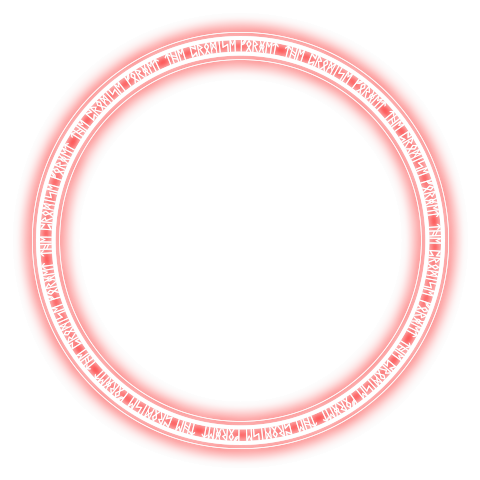
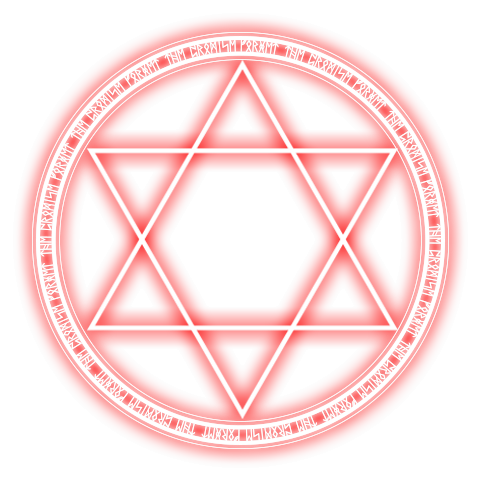
update: boss_appearance

Changed region(s): [[0.1562, 0.125, 0.8438, 0.875]]

diff --git a/src/js/createjs/boss_appearance.js b/src/js/createjs/boss_appearance.js
@@ -11,12 +11,12 @@ var p; // shortcut to reference prototypes
 	this.initialize(mode,startPosition,loop,{});
 
 	// timeline functions:
-	this.frame_57 = function() {
+	this.frame_87 = function() {
 		this.stop();
 	}
 
 	// actions tween:
-	this.timeline.addTween(cjs.Tween.get(this).wait(57).call(this.frame_57));
+	this.timeline.addTween(cjs.Tween.get(this).wait(87).call(this.frame_87));
 
 	// circle
 	this.instance = new lib.circle_motion();
@@ -24,21 +24,21 @@ var p; // shortcut to reference prototypes
 	this.instance.alpha = 0.602;
 	this.instance._off = true;
 
-	this.timeline.addTween(cjs.Tween.get(this.instance).wait(27).to({_off:false},0).wait(31));
+	this.timeline.addTween(cjs.Tween.get(this.instance).wait(27).to({_off:false},0).wait(61));
 
 	// housya
 	this.instance_1 = new lib.emlight_motion();
 	this.instance_1.setTransform(480,480);
 	this.instance_1._off = true;
 
-	this.timeline.addTween(cjs.Tween.get(this.instance_1).wait(27).to({_off:false},0).to({_off:true},30).wait(1));
+	this.timeline.addTween(cjs.Tween.get(this.instance_1).wait(27).to({_off:false},0).to({_off:true},60).wait(1));
 
 	// maru
 	this.instance_2 = new lib.dot_1();
 	this.instance_2.setTransform(480,480);
 	this.instance_2._off = true;
 
-	this.timeline.addTween(cjs.Tween.get(this.instance_2).wait(27).to({_off:false},0).to({_off:true},30).wait(1));
+	this.timeline.addTween(cjs.Tween.get(this.instance_2).wait(27).to({_off:false},0).to({_off:true},60).wait(1));
 
 }).prototype = p = new cjs.MovieClip();
 p.nominalBounds = new cjs.Rectangle(0,0,0,0);
@@ -104,6 +104,7 @@ p.nominalBounds = new cjs.Rectangle(-239.9,-239.9,480,480);
 
 	// レイヤー 1
 	this.instance = new lib.emlight_image();
+	this.instance.compositeOperation = "lighter";
 
 	this.timeline.addTween(cjs.Tween.get(this.instance).to({rotation:360},59).wait(1));
 
@@ -119,7 +120,7 @@ p.nominalBounds = new cjs.Rectangle(-149.9,-149.9,300,300);
 	this.instance.setTransform(0,0,0.47,0.47);
 	this.instance.alpha = 0;
 
-	this.timeline.addTween(cjs.Tween.get(this.instance).to({scaleX:1.63,scaleY:1.63,alpha:1},12).wait(3).to({scaleX:1,scaleY:1,alpha:0},14).wait(1));
+	this.timeline.addTween(cjs.Tween.get(this.instance).to({scaleX:1.63,scaleY:1.63,rotation:45,alpha:1},14).to({scaleX:1,scaleY:1,rotation:90,alpha:0},45).wait(1));
 
 }).prototype = p = new cjs.MovieClip();
 p.nominalBounds = new cjs.Rectangle(-70.4,-70.4,140.9,140.9);
@@ -131,8 +132,9 @@ p.nominalBounds = new cjs.Rectangle(-70.4,-70.4,140.9,140.9);
 	// レイヤー 1
 	this.instance = new lib.dot_imge();
 	this.instance.alpha = 0;
+	this.instance.compositeOperation = "lighter";
 
-	this.timeline.addTween(cjs.Tween.get(this.instance).to({scaleX:1.69,scaleY:1.69,alpha:0.52},14).to({scaleX:2.43,scaleY:2.43,alpha:0},15).wait(1));
+	this.timeline.addTween(cjs.Tween.get(this.instance).to({scaleX:1.69,scaleY:1.69,alpha:1},28).to({scaleX:2.43,scaleY:2.43,alpha:0},31).wait(1));
 
 }).prototype = p = new cjs.MovieClip();
 p.nominalBounds = new cjs.Rectangle(-149.9,-149.9,300,300);
@@ -154,19 +156,27 @@ p.nominalBounds = new cjs.Rectangle(-239.9,-239.9,480,480);
 	this.initialize(mode,startPosition,loop,{});
 
 	// timeline functions:
-	this.frame_9 = function() {
+	this.frame_18 = function() {
 		this.stop();
 	}
 
 	// actions tween:
-	this.timeline.addTween(cjs.Tween.get(this).wait(9).call(this.frame_9));
+	this.timeline.addTween(cjs.Tween.get(this).wait(18).call(this.frame_18));
 
-	// レイヤー 1
+	// レイヤー 2
 	this.instance = new lib.circle_roll();
 	this.instance.setTransform(0,0,1.146,1.146);
-	this.instance.alpha = 0;
+	this.instance.compositeOperation = "lighter";
 
-	this.timeline.addTween(cjs.Tween.get(this.instance).to({alpha:1},9).wait(1));
+	this.timeline.addTween(cjs.Tween.get(this.instance).to({_off:true},18).wait(1));
+
+	// レイヤー 1
+	this.instance_1 = new lib.circle_roll();
+	this.instance_1.setTransform(0,0,1.146,1.146);
+	this.instance_1.alpha = 0;
+	this.instance_1.compositeOperation = "lighter";
+
+	this.timeline.addTween(cjs.Tween.get(this.instance_1).to({alpha:1},18).wait(1));
 
 }).prototype = p = new cjs.MovieClip();
 p.nominalBounds = new cjs.Rectangle(-274.9,-274.9,550,550);
@@ -176,21 +186,22 @@ p.nominalBounds = new cjs.Rectangle(-274.9,-274.9,550,550);
 	this.initialize(mode,startPosition,loop,{});
 
 	// timeline functions:
-	this.frame_82 = function() {
+	this.frame_165 = function() {
 		this.stop();
 	}
 
 	// actions tween:
-	this.timeline.addTween(cjs.Tween.get(this).wait(82).call(this.frame_82));
+	this.timeline.addTween(cjs.Tween.get(this).wait(165).call(this.frame_165));
 
 	// レイヤー 1
 	this.instance = new lib.circle_alpha();
 	this.instance.setTransform(0,0,0.35,0.35);
 
-	this.timeline.addTween(cjs.Tween.get(this.instance).to({scaleX:1.81,scaleY:1.81},34).to({scaleX:0.35,scaleY:0.35},32).to({scaleX:0.4,scaleY:0.4},16).wait(1));
+	this.timeline.addTween(cjs.Tween.get(this.instance).to({scaleX:1.81,scaleY:1.81},68,cjs.Ease.get(1)).to({scaleX:0.93,scaleY:0.93},34,cjs.Ease.get(-0.99)).to({scaleX:0.35,scaleY:0.35},30,cjs.Ease.get(1)).to({scaleX:0.38,scaleY:0.38},16,cjs.Ease.get(-0.99)).to({scaleX:0.4,scaleY:0.4},17,cjs.Ease.get(1)).wait(1));
 
 }).prototype = p = new cjs.MovieClip();
 p.nominalBounds = new cjs.Rectangle(-96.2,-96.2,192.5,192.5);
 
 })(lib = lib||{}, images = images||{}, createjs = createjs||{});
+var lib, images, createjs;
 module.exports = lib;

diff --git a/src/js/spell/base.js b/src/js/spell/base.js
@@ -17,9 +17,9 @@ var CUTIN_SLIDEING_WAIT_COUNT = 30;
 // カットインの左から右へスライドする時間
 var CUTIN_SLIDEING_COUNT = 10;
 // カットインの消失まで待つ時間
-var CUTIN_DISAPPEAR_WAIT_COUNT = 45;
+var CUTIN_DISAPPEAR_WAIT_COUNT = 100;
 // カットイン消失時間
-var CUTIN_DISAPPEAR_COUNT = 5;
+var CUTIN_DISAPPEAR_COUNT = 20;
 
 
 var SpellBase = function(boss) {
